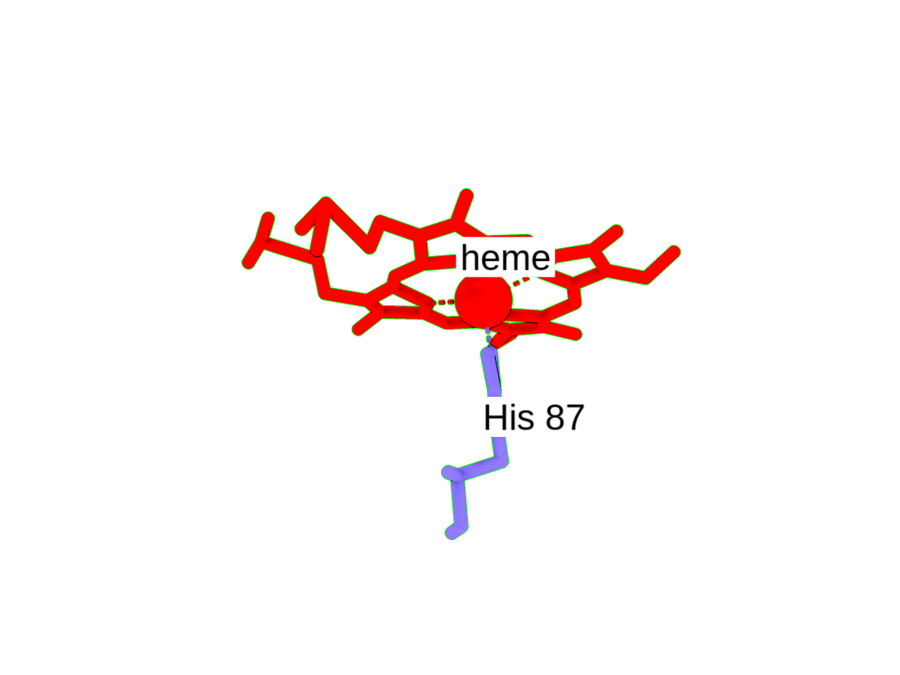
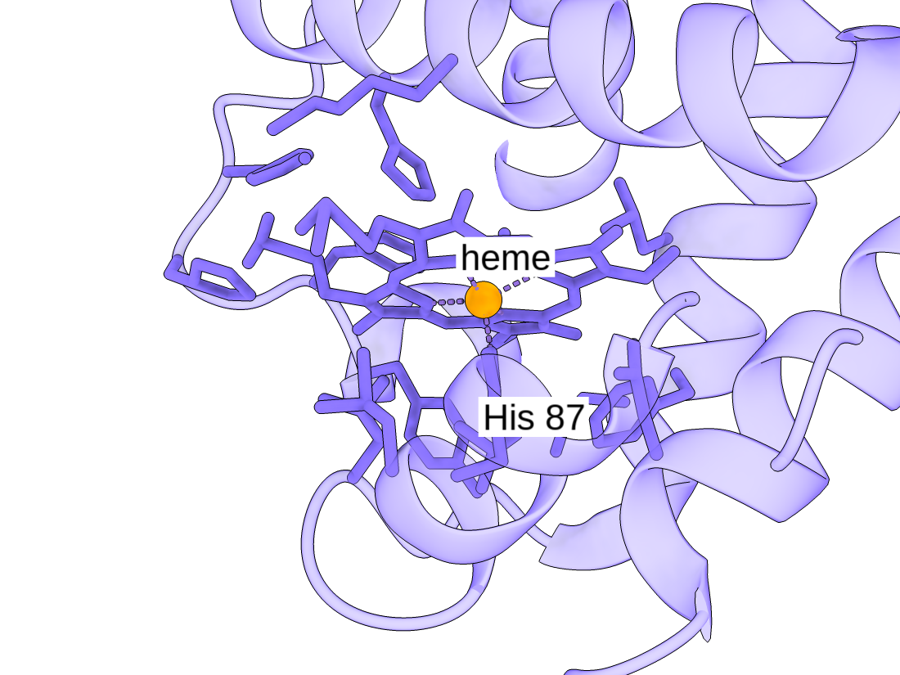
Final re-shoots on the fixed build: table and compare recordings, compare and contacts stills, publication figure
The compare recording is gated on the correct result (one 4 A call, three broken
salt bridges) and ends on a close-up of a contact the tool drew; the table
recording holds the colored result with its title readable on the dark scene;
the publication figure comes from the request itself, no restyle; the tidy still
has no overlapping labels at native size. Example packs carry the new posters.

Claude-Session: https://claude.ai/code/session_01PM7SbgSP3nzreh8gr2JfWo

diff --git a/docs/index.html b/docs/index.html
@@ -35,27 +35,84 @@ key delete
 key blue:-4.5 white:0 red:4.5 pos 0.30,0.075 size 0.40,0.04 fontSize 20
 2dlabels create pellaeon_title text &quot;ubiquitin hydropathy (gray = no value)&quot; xpos 0.30 ypos 0.165 size 20 color white
 view #1
-zoom 0.85</pre></details></figure><figure class="demo-panel" id="demo-compare" hidden><button class="demo-play" type="button" aria-label="Play the recording"><img src="img/demo_compare_poster.png" data-poster="img/demo_compare_poster.png" data-gif="img/demo_compare.gif" alt="Compare structures" loading="lazy"><span class="play-overlay" aria-hidden="true"><span class="play-icon"></span><span class="badge">Play recording</span></span></button><figcaption><span class="req">Compare structures and inspect contact differences.</span><span class="res">Residue displacements and lost/gained contacts shown.</span></figcaption><p class="small"><a href="tutorial.html#step-9-compare-two-conformations">Follow this guide</a> &middot; <a href="https://github.com/tggr-lab/pellaeon/tree/main/docs/examples/compare">Get the example files</a> &middot; <a href="img/demo_compare.gif">Open full size</a></p><details><summary>Details</summary><p>&quot;compare these two models and tell me what changed&quot; then &quot;which salt bridges break when it opens?&quot; (on adenylate kinase closed 1ake vs. open 4ake)</p><p>The open form is superposed on the closed form and colored by C-alpha displacement after the fit, then contacts that break on opening are drawn as red dashes on the closed model and new ones as green dashes on the open model, with a lost/gained key.</p><p>Selected commands below omit: 14 more lost-contact distance commands between the two listed residue sets; 3 more gained-contact distance commands.</p></details><details><summary>Selected commands</summary><pre>matchmaker #2/A to #1/A
-color byattribute r:pellaeon_disp #2/A palette 0,#bdbdbd:1,gold:3,orange:6,#b2182b range 0,6 target ac noValueColor #d9c6f0
+zoom 0.85</pre></details></figure><figure class="demo-panel" id="demo-compare" hidden><button class="demo-play" type="button" aria-label="Play the recording"><img src="img/demo_compare_poster.png" data-poster="img/demo_compare_poster.png" data-gif="img/demo_compare.gif" alt="Compare structures" loading="lazy"><span class="play-overlay" aria-hidden="true"><span class="play-icon"></span><span class="badge">Play recording</span></span></button><figcaption><span class="req">Compare structures and inspect contact differences.</span><span class="res">Residue displacements and lost/gained contacts shown.</span></figcaption><p class="small"><a href="tutorial.html#step-9-compare-two-conformations">Follow this guide</a> &middot; <a href="https://github.com/tggr-lab/pellaeon/tree/main/docs/examples/compare">Get the example files</a> &middot; <a href="img/demo_compare.gif">Open full size</a></p><details><summary>Details</summary><p>&quot;compare these two models and tell me what changed&quot; then &quot;which salt bridges break when it opens?&quot; (on adenylate kinase, closed 1ake vs. open 4ake, chain A; the second copy of each dimer is hidden)</p><p>102 of the 214 paired residues move more than 2 A (mean 5.3 A, maximum 24.7 A in the 117-167 loop), and of the interactions that change, three salt bridges break (LYS 23-GLY 214, LYS 145-GLU 152, ASP 159-ARG 167) while one forms (GLU 114-ARG 165); the broken contacts are drawn as red dashes on the closed model and the new ones green on the open one, first fitted whole and then close in on LYS 23-GLY 214.</p></details><details><summary>Selected commands</summary><pre>matchmaker #2/A to #1/A
+color byattribute r:pellaeon_disp #2/A palette 0,#bdbdbd:1,gold:3,orange:6,#b2182b range 0,6 target ac novalue #d9c6f0
 color #1/A #b8c4d6 target ac
 transparency #1/A 60 target c
 hide #1/A models
-key #bdbdbd:0 gold:1 orange:3 #b2182b:6+ pos 0.70,0.05 size 0.27,0.035 fontSize 16
-2dlabels text &quot;Cα shift after fit (Å); lavender = not compared&quot; xpos 0.70 ypos 0.10 size 15 color black
+hide #1 &amp; ~/A target acs
+hide #2 &amp; ~/A target acs
+key delete
+key #bdbdbd:0 gold:1 orange:3 #b2182b:6+ pos 0.30,0.075 size 0.40,0.04 fontSize 20
+2dlabels create pellaeon_title text &quot;Cα shift after fit (Å); lavender = not compared&quot; xpos 0.30 ypos 0.165 size 20 color white
+view #2/A
+zoom 0.85
 matchmaker #2/A to #1/A
 show #1 models
 show #2 models
+hide #1 &amp; ~/A target acs
+hide #2 &amp; ~/A target acs
 transparency #1 55 target c
 transparency #2 55 target c
 distance delete
-show #1/A:10,11,15,18,33,36,53,54,55,56,116,119,130,131,132,138,156,158,163,164,166,167,198,199 atoms
-color #1/A:10,11,15,18,33,36,53,54,55,56,116,119,130,131,132,138,156,158,163,164,166,167,198,199 #b2182b target a
-distance #1/A:119@NH1 #1/A:10@O color #b2182b dashes 6 radius 0.08
-show #2/A:113,114,117,118,165 atoms
-color #2/A:113,114,117,118,165 #1a9850 target a
-distance #2/A:165@NH2 #2/A:114@OE1 color #1a9850 dashes 6 radius 0.08
-key #b2182b:lost #1a9850:gained colorTreatment distinct pos 0.68,0.05 size 0.28,0.035 fontSize 15
-2dlabels text &quot;Contacts lost (red, on #1) and gained (green, on #2); showing 16 of 16 lost and 4 of 4 gained&quot; xpos 0.68 ypos 0.10 size 14 color black</pre></details></figure><figure class="demo-panel" id="demo-figure" hidden><button class="demo-play" type="button" aria-label="Play the recording"><img src="img/demo_figure_poster.png" data-poster="img/demo_figure_poster.png" data-gif="img/demo_figure.gif" alt="Prepare a figure" loading="lazy"><span class="play-overlay" aria-hidden="true"><span class="play-icon"></span><span class="badge">Play recording</span></span></button><figcaption><span class="req">Rearrange overlapping labels, then save the figure.</span><span class="res">Labels rearranged; 7 removed. Figure and session saved.</span></figcaption><p class="small"><a href="tutorial.html#step-8b-when-labels-pile-up">Follow this guide</a> &middot; <a href="https://github.com/tggr-lab/pellaeon/tree/main/docs/examples/figure">Get the example files</a> &middot; <a href="img/demo_figure.gif">Open full size</a></p><details><summary>Details</summary><p>On 4hhb colored by chain with residues 80-100 of chain A labeled (piled up on purpose): &quot;the labels overlap, tidy them&quot;, then &quot;save this as a figure called hemoglobin&quot;</p><p>Tidy labels nudged 2 of the 21 crowded chain-A labels to a free spot and dropped the 18 that could not fit, leaving 3 readable ones; the figure bundle (PNG, ChimeraX session, replay script, per-residue colors, draft legend, sources) was written to ~/Pellaeon figures/hemoglobin and the recording ends on the exported PNG itself.</p></details><details><summary>Selected commands</summary><pre>label #1/A:97 residues offset 0.00,9.08,0.00
+show #1/A:8,10,12,13,14,15,16,17,18,23,31,36,39,40,58,61,84,85,88,89,119,121,122,123,132,145,152,156,159,167,170,171,175,176,198,214 atoms
+color #1/A:8,10,12,13,14,15,16,17,18,23,31,36,39,40,58,61,84,85,88,89,119,121,122,123,132,145,152,156,159,167,170,171,175,176,198,214 #b2182b target a
+distance #1/A:23@NZ #1/A:214@OXT color #b2182b dashes 6 radius 0.08
+distance #1/A:145@NZ #1/A:152@OE1 color #b2182b dashes 6 radius 0.08
+distance #1/A:159@OD1 #1/A:167@NH2 color #b2182b dashes 6 radius 0.08
+distance #1/A:8@O #1/A:13@NZ color #b2182b dashes 6 radius 0.08
+distance #1/A:10@O #1/A:119@NH1 color #b2182b dashes 6 radius 0.08
+distance #1/A:12@O #1/A:16@N color #b2182b dashes 6 radius 0.08
+distance #1/A:13@O #1/A:17@N color #b2182b dashes 6 radius 0.08
+distance #1/A:14@O #1/A:18@N color #b2182b dashes 6 radius 0.08
+distance #1/A:15@O #1/A:18@N color #b2182b dashes 6 radius 0.08
+distance #1/A:18@OE1 #1/A:132@N color #b2182b dashes 6 radius 0.08
+distance #1/A:31@N #1/A:84@O color #b2182b dashes 6 radius 0.08
+distance #1/A:31@OG1 #1/A:85@O color #b2182b dashes 6 radius 0.08
+distance #1/A:36@O #1/A:39@N color #b2182b dashes 6 radius 0.08
+distance #1/A:36@O #1/A:40@N color #b2182b dashes 6 radius 0.08
+distance #1/A:36@NH1 #1/A:156@CZ color #b2182b dashes 6 radius 0.08
+distance #1/A:58@N #1/A:170@OE1 color #b2182b dashes 6 radius 0.08
+distance #1/A:61@OD1 #1/A:89@OG1 color #b2182b dashes 6 radius 0.08
+distance #1/A:88@O #1/A:175@OG1 color #b2182b dashes 6 radius 0.08
+distance #1/A:119@O #1/A:121@N color #b2182b dashes 6 radius 0.08
+distance #1/A:119@O #1/A:122@N color #b2182b dashes 6 radius 0.08
+distance #1/A:119@O #1/A:123@N color #b2182b dashes 6 radius 0.08
+distance #1/A:119@NH2 #1/A:198@O color #b2182b dashes 6 radius 0.08
+distance #1/A:123@NH2 #1/A:156@NH1 color #b2182b dashes 6 radius 0.08
+distance #1/A:171@O #1/A:176@N color #b2182b dashes 6 radius 0.08
+show #2/A:1,3,5,6,8,25,31,45,46,47,48,49,50,51,52,79,84,85,88,105,107,113,114,116,117,118,132,138,141,143,159,161,165,175,176,179,180,193,195,213 atoms
+color #2/A:1,3,5,6,8,25,31,45,46,47,48,49,50,51,52,79,84,85,88,105,107,113,114,116,117,118,132,138,141,143,159,161,165,175,176,179,180,193,195,213 #1a9850 target a
+distance #2/A:114@OE1 #2/A:165@NH2 color #1a9850 dashes 6 radius 0.08
+distance #2/A:5@O #2/A:85@N color #1a9850 dashes 6 radius 0.08
+distance #2/A:25@O #2/A:79@ND2 color #1a9850 dashes 6 radius 0.08
+distance #2/A:31@OG1 #2/A:88@NH2 color #1a9850 dashes 6 radius 0.08
+distance #2/A:45@O #2/A:48@N color #1a9850 dashes 6 radius 0.08
+distance #2/A:45@O #2/A:49@N color #1a9850 dashes 6 radius 0.08
+distance #2/A:46@O #2/A:50@N color #1a9850 dashes 6 radius 0.08
+distance #2/A:47@O #2/A:51@OD2 color #1a9850 dashes 6 radius 0.08
+distance #2/A:48@O #2/A:52@N color #1a9850 dashes 6 radius 0.08
+distance #2/A:113@O #2/A:117@N color #1a9850 dashes 6 radius 0.08
+distance #2/A:114@O #2/A:117@N color #1a9850 dashes 6 radius 0.08
+distance #2/A:114@O #2/A:118@N color #1a9850 dashes 6 radius 0.08
+distance #2/A:132@O #2/A:138@ND2 color #1a9850 dashes 6 radius 0.08
+distance #2/A:141@O #2/A:143@N color #1a9850 dashes 6 radius 0.08
+distance #2/A:159@O #2/A:161@N color #1a9850 dashes 6 radius 0.08
+distance #2/A:175@O #2/A:179@N color #1a9850 dashes 6 radius 0.08
+distance #2/A:176@O #2/A:180@N color #1a9850 dashes 6 radius 0.08
+distance #2/A:193@OH #2/A:195@NZ color #1a9850 dashes 6 radius 0.08
+distance #2/A:1@SD #2/A:105@CE1 color #1a9850 dashes 6 radius 0.08
+distance #2/A:1@CE #2/A:213@O color #1a9850 dashes 6 radius 0.08
+distance #2/A:3@CG2 #2/A:107@CD1 color #1a9850 dashes 6 radius 0.08
+distance #2/A:5@O #2/A:84@C color #1a9850 dashes 6 radius 0.08
+distance #2/A:6@CD1 #2/A:179@CD1 color #1a9850 dashes 6 radius 0.08
+distance #2/A:8@CB #2/A:116@CD1 color #1a9850 dashes 6 radius 0.08
+key delete
+key #b2182b:lost #1a9850:gained colorTreatment distinct pos 0.30,0.075 size 0.40,0.04 fontSize 20
+label delete pseudobonds
+2dlabels change pellaeon_title text &quot;Contacts lost (red, #1) and gained (green, #2)&quot; xpos 0.30 ypos 0.165 size 20 color white
+view #1/A #2/A
+zoom 0.85</pre></details></figure><figure class="demo-panel" id="demo-figure" hidden><button class="demo-play" type="button" aria-label="Play the recording"><img src="img/demo_figure_poster.png" data-poster="img/demo_figure_poster.png" data-gif="img/demo_figure.gif" alt="Prepare a figure" loading="lazy"><span class="play-overlay" aria-hidden="true"><span class="play-icon"></span><span class="badge">Play recording</span></span></button><figcaption><span class="req">Rearrange overlapping labels, then save the figure.</span><span class="res">Labels rearranged; 7 removed. Figure and session saved.</span></figcaption><p class="small"><a href="tutorial.html#step-8b-when-labels-pile-up">Follow this guide</a> &middot; <a href="https://github.com/tggr-lab/pellaeon/tree/main/docs/examples/figure">Get the example files</a> &middot; <a href="img/demo_figure.gif">Open full size</a></p><details><summary>Details</summary><p>On 4hhb colored by chain with residues 80-100 of chain A labeled (piled up on purpose): &quot;the labels overlap, tidy them&quot;, then &quot;save this as a figure called hemoglobin&quot;</p><p>Tidy labels nudged 2 of the 21 crowded chain-A labels to a free spot and dropped the 18 that could not fit, leaving 3 readable ones; the figure bundle (PNG, ChimeraX session, replay script, per-residue colors, draft legend, sources) was written to ~/Pellaeon figures/hemoglobin and the recording ends on the exported PNG itself.</p></details><details><summary>Selected commands</summary><pre>label #1/A:97 residues offset 0.00,9.08,0.00
 label #1/A:86 residues offset 0.00,9.53,0.00
 label delete #1/A:96 #1/A:94 #1/A:99 #1/A:93 #1/A:95 #1/A:98 #1/A:91 #1/A:92 #1/A:87 #1/A:90 #1/A:88 #1/A:89 #1/A:83 #1/A:84 #1/A:85 #1/A:82 #1/A:80 #1/A:81 residues
 label #1/A:100 #1/A:97 #1/A:86 size 16 height fixed onTop true color black bgColor #ffffffd9

diff --git a/tests_chimerax/tutorial_renders.py b/tests_chimerax/tutorial_renders.py
@@ -85,17 +85,16 @@ STEPS = [
                       "label #1/A:HEM residues text \"heme\" height fixed size 34 color black bgColor white",
                       "view #1/A:87 | (#1/A:87 :<5)", "zoom 0.7"]),
     ("03c_why",      "Why is residue 87 (HIS) of chain A in 4hhb this color?", ["select #1/A:87"], False, True, []),
-    ("04_pub",       "make it look publication ready and focus on the heme of chain A", [], True, True,
-                     # The whole heme of chain A, face on, as sticks with a small iron sphere, His 87 in front
-                     # of it, both labeled and nothing else in the frame: the other three chains and their
-                     # hemes are put away so no stray red blob wanders into the corner.
-                     ["hide #1/B,C,D target acs", "hide #1/B,C,D cartoon", "hide #1 target a",
-                      "show #1/A:HEM target a", "style #1/A:HEM stick", "size #1/A:HEM stickRadius 0.22",
-                      "style #1/A:HEM@FE sphere", "size #1/A:HEM@FE atomRadius 1.0",
-                      "show #1/A:87 target a", "style #1/A:87 stick", "size #1/A:87 stickRadius 0.22",
+    # The request now asks for the sticks and the iron sphere, so the turn produces them and nothing here
+    # restyles the heme: what is left is framing. The other three chains and their hemes are put away, the
+    # camera is turned onto the ring (edge on, a heme drawn as sticks is an unreadable streak) and tilted a
+    # little off its normal so His 87 is not hidden behind the porphyrin and the two labels separate.
+    ("04_pub",       "make it look publication ready and focus on the heme of chain A, shown as sticks with its iron as a small sphere", [], True, True,
+                     ["hide #1/B,C,D target acs", "hide #1/B,C,D cartoon", "transparency #1/A 70 target c",
+                      "show #1/A:87 target a", "style #1/A:87 stick",
                       "~label", "label #1/A:87 residues text \"His 87\" height fixed size 34 color black bgColor white",
                       "label #1/A:HEM residues text \"heme\" height fixed size 34 color black bgColor white",
-                      "@face_heme", "turn x 58", "turn y 12", "view #1/A:HEM #1/A:87", "zoom 0.95"]),   # a little off the ring normal so His 87 is not hidden behind the porphyrin and the two labels separate
+                      "@face_heme", "turn x 58", "turn y 12", "view #1/A:HEM #1/A:87", "zoom 0.95"]),
     ("05_distance",  "measure the distance between the iron of the heme in chain A and the CA of residue 87 in chain A", [], True, True,
                      # Same subject as step 4, enlarged so the measured pair is the picture. The monitor line
                      # and its number are left to the build, which now picks a colour that contrasts with the
@@ -236,8 +235,36 @@ CLEAN_TURN = {
     "03_nearby_b": ["@newchat"] + COLD["03"] + ["select #1/A:87"],
 }
 
+def journal_has(pattern):
+    import re as _re
+    return any(j.get("ok") and _re.search(pattern, str(j.get("command", "")), _re.I)
+               for j in (inst.agent.journal if inst.agent else []))
+
+# Some steps can end with every card green and still not have done what the request asked: step 4's
+# model often cannot find the iron (it guesses ':FE' as a residue) and signs off by telling the user
+# which command to run instead. A green tick is not the test; the commands that ran are.
+def _styled(spec, mode):
+    """Is anything matching `spec` displayed in `mode` right now?
+
+    Asking the scene, not the journal: a `style #1/A:FE sphere` that matched no atom still comes back
+    ok, so a step can look delivered while the reply is explaining that it could not find the iron.
+    """
+    from chimerax.core.commands import atomspec
+    from chimerax.atomic import Atom
+    try:
+        atoms = atomspec.AtomSpecArg.parse(spec, session)[0].evaluate(session).atoms
+    except Exception:  # noqa: BLE001
+        return False
+    want = {"sphere": Atom.SPHERE_STYLE, "stick": Atom.STICK_STYLE}[mode]
+    return any(bool(a.display) and a.draw_mode == want for a in atoms)
+
+STEP_DELIVERED = {
+    "04_pub": lambda: _styled("#1/A:HEM@FE", "sphere") and _styled("#1/A:HEM@N*,C*", "stick"),
+}
+
 def turn_clean():
-    """Every tool card in the turn green, and every command inside a run_commands card ok."""
+    """Every tool card in the turn green, every command inside a run_commands card ok, and - where the
+    step says so - the commands that actually deliver what the request asked for."""
     for _name, ok, payload in TOOL_RESULTS:
         if not ok:
             return False
@@ -319,11 +346,13 @@ def go(i):
             del TOOL_RESULTS[:]
             inst.submit(req)
             def judge():
-                if turn_clean() or tries[0] >= int(os.environ.get("PELLAEON_CLEAN_TRIES", "5")):
-                    log("TUT %s clean=%s after %d retries" % (tag, turn_clean(), tries[0]))
+                ok = turn_clean() and STEP_DELIVERED.get(tag, lambda: True)()
+                if ok or tries[0] >= int(os.environ.get("PELLAEON_CLEAN_TRIES", "5")):
+                    log("TUT %s clean=%s delivered=%s after %d retries"
+                        % (tag, turn_clean(), STEP_DELIVERED.get(tag, lambda: True)(), tries[0]))
                     after(); return
                 tries[0] += 1
-                log("TUT %s attempt %d had a failed command, retrying" % (tag, tries[0]))
+                log("TUT %s attempt %d did not come out clean, retrying" % (tag, tries[0]))
                 run_pre(CLEAN_TURN[tag])
                 later(1.0, attempt2)
             wait_idle(judge)
